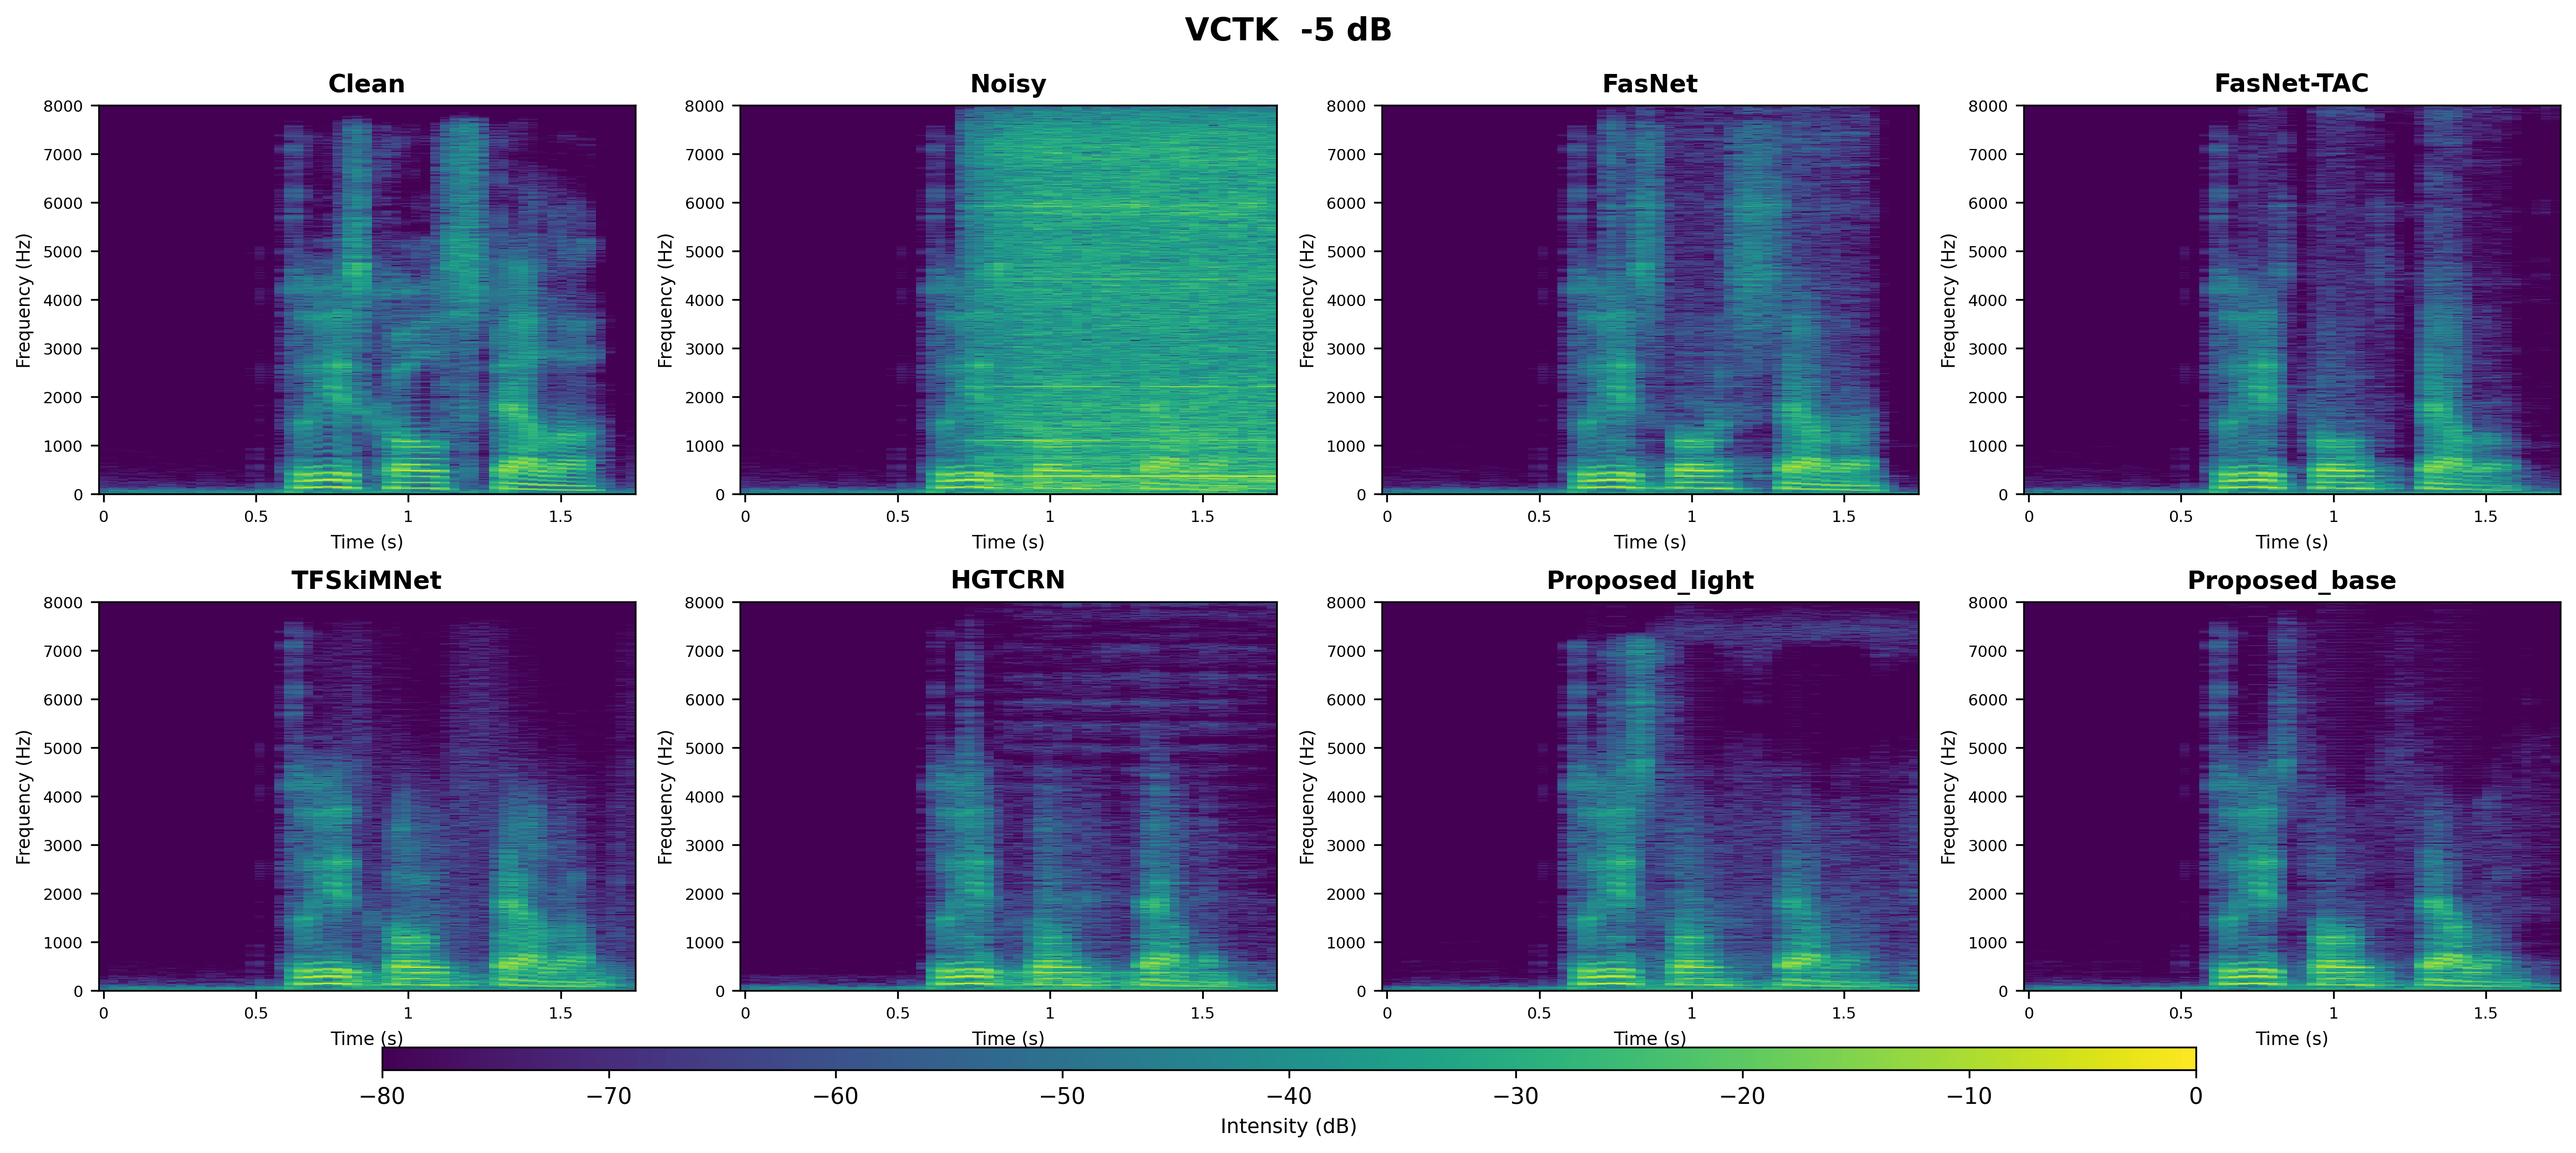
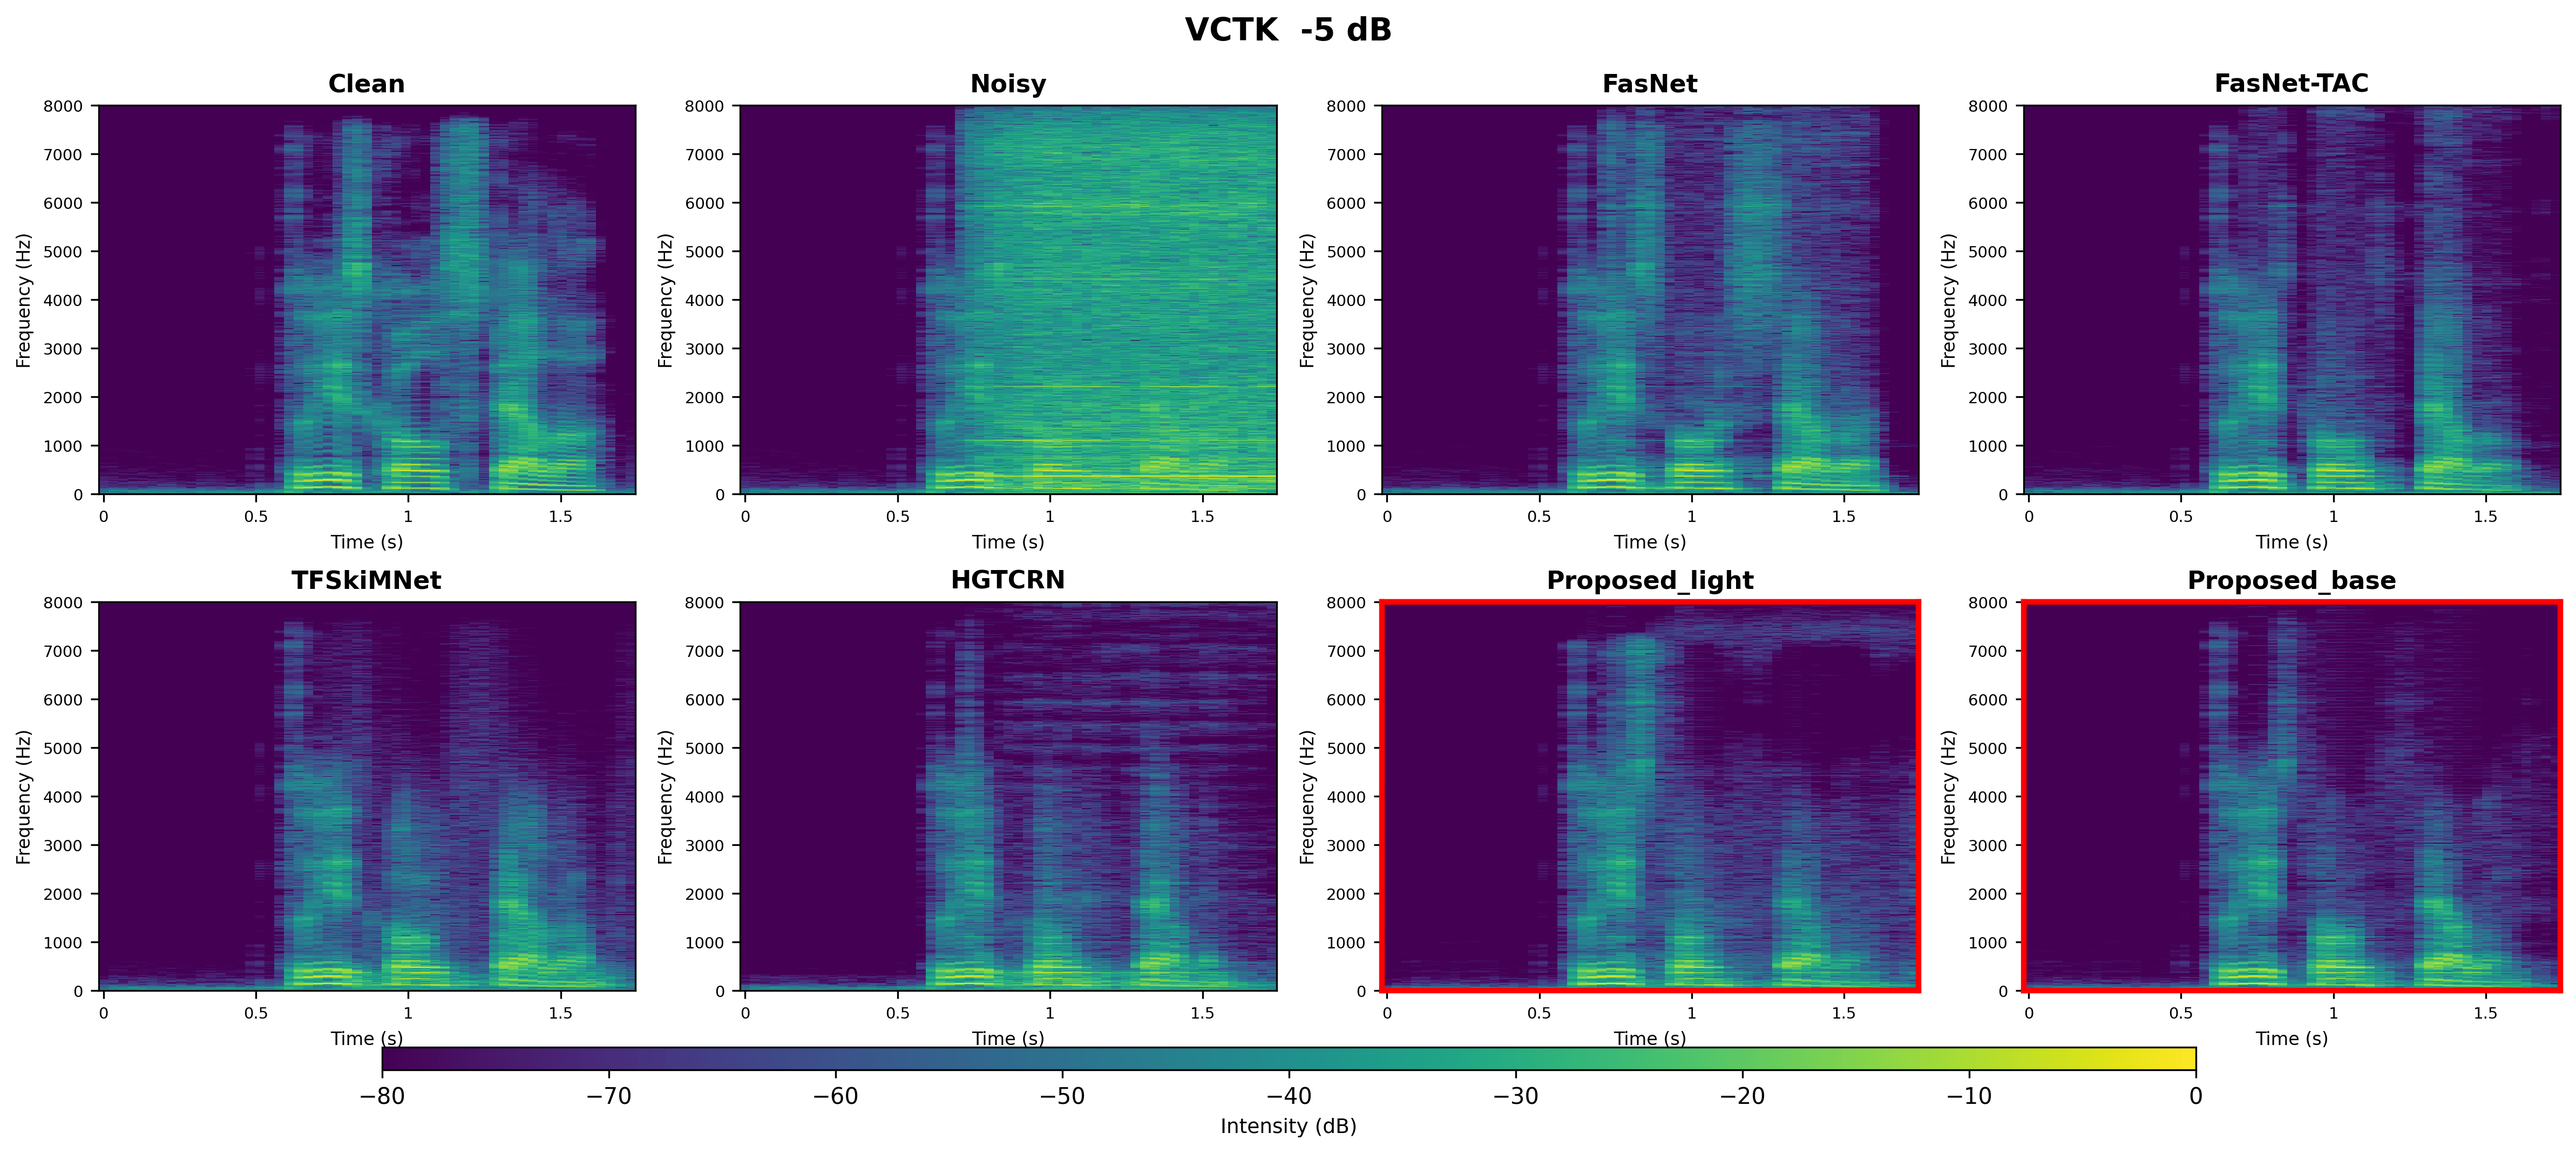
finish html and change picture

diff --git a/index.html b/index.html
@@ -1,0 +1,334 @@
+<!DOCTYPE html>
+<html lang="en">
+<script>
+    window.MathJax = { tex: { inlineMath: [['$', '$'], ['\\(', '\\)']], }, chtml: { scale: 0.9 } };
+</script>
+<script src="https://cdn.jsdelivr.net/npm/mathjax@3.0.1/es5/tex-mml-chtml.js"></script>
+<head>
+    <meta http-equiv="Content-Type" content="text/html; charset=UTF-8">
+    <title>Online Supplement</title>
+    
+    <link rel="stylesheet" type="text/css" href="css/bootstrap.min.css">
+    <script>
+        window.MathJax = { tex: { inlineMath: [['$', '$'], ['\\(', '\\)']], }, chtml: { scale: 0.8 } };
+    </script>
+    <script src="https://cdn.jsdelivr.net/npm/mathjax@3.0.1/es5/tex-mml-chtml.js"></script>
+
+    <style>
+        /* 引入谷歌字体，提升整体质感 */
+        @import url('https://fonts.googleapis.com/css2?family=Roboto:wght@300;400;500;700&display=swap');
+
+        body {
+            font-family: 'Roboto', sans-serif;
+            background-color: #f4f7f6;
+            color: #333;
+        }
+
+        /* 核心修改：加宽容器，增加阴影和内边距，告别拥挤 */
+        .container {
+            max-width: 1400px !important; 
+            background-color: #fff;
+            padding: 40px 50px;
+            margin-top: 40px;
+            margin-bottom: 40px;
+            border-radius: 12px;
+            box-shadow: 0 10px 30px rgba(0,0,0,0.08);
+        }
+
+        header {
+            border-bottom: 2px solid #004085;
+            padding-bottom: 20px;
+            margin-bottom: 30px;
+            text-align: center;
+        }
+
+        header h1 {
+            color: #004085;
+            font-weight: 700;
+        }
+
+        header .color_fade {
+            font-weight: 300;
+            color: #6c757d;
+        }
+
+        h4 {
+            color: #004085;
+            border-left: 5px solid #004085;
+            padding-left: 15px;
+            margin-top: 30px;
+            margin-bottom: 15px;
+            font-weight: 500;
+        }
+
+        h5 {
+            color: #495057;
+            margin-top: 25px;
+            margin-bottom: 15px;
+            font-weight: 700;
+            border-bottom: 1px dashed #ccc;
+            padding-bottom: 5px;
+        }
+
+        .info-box {
+            background-color: #f8f9fa;
+            padding: 15px;
+            border-radius: 4px;
+            border: 1px solid #e9ecef;
+            font-size: medium;
+        }
+
+        /* Baseline methods 链接样式化为“药丸”标签 */
+        .baseline-list {
+            padding-left: 0;
+        }
+        
+        .baseline-list li {
+            display: inline-block;
+            background-color: #e2e6ea;
+            color: #004085;
+            padding: 6px 15px;
+            margin: 5px;
+            border-radius: 20px;
+            font-size: 14px;
+            list-style-type: none;
+        }
+
+        .baseline-list li a {
+            color: #004085;
+            text-decoration: none;
+            font-weight: 500;
+        }
+
+        .baseline-list li a:hover {
+            text-decoration: underline;
+        }
+
+        /* 表格美化与防挤压 */
+        .table {
+            margin-bottom: 0;
+            background-color: #fff;
+            box-shadow: 0 2px 8px rgba(0,0,0,0.02);
+        }
+
+        .table thead th {
+            background-color: #004085;
+            color: #fff;
+            border-bottom: none;
+            text-align: center;
+            vertical-align: middle;
+        }
+
+        .table td, .table th {
+            padding: 12px 15px;
+            vertical-align: middle;
+            text-align: center;
+            border-color: #e9ecef;
+        }
+
+        /* 核心修改：强制表格第一列（Model名称）不换行 */
+        .table td:first-child {
+            white-space: nowrap; 
+            font-weight: 500;
+            color: #495057;
+        }
+
+        /* 高亮 Proposed 方法 */
+        .row-proposed td {
+            font-weight: 700 !important;
+            color: #004085 !important;
+            background-color: #f0f8ff; /* 浅蓝色背景突出显示 */
+        }
+
+        /* 优化音频播放器样式，防止缩成一团 */
+        audio {
+            width: 100%;
+            min-width: 220px; 
+            height: 40px;
+            outline: none;
+        }
+
+        /* 声谱图图片美化 */
+        .spectrogram-img {
+            max-width: 100%;
+            height: auto;
+            border-radius: 8px;
+            border: 1px solid #e9ecef;
+            box-shadow: 0 4px 12px rgba(0,0,0,0.05);
+            transition: transform 0.3s ease;
+        }
+
+        .spectrogram-img:hover {
+            transform: translateY(-3px);
+            box-shadow: 0 8px 20px rgba(0,0,0,0.1);
+        }
+
+        .mb-5 {
+            margin-bottom: 4rem !important; /* 增加每个区块之间的间距 */
+        }
+    </style>
+</head>
+
+<body>
+    <div class="container">
+        <header>
+            <h1>
+                <span class="paper-title">Lightweight and Low-Latency Dual Channel Speech Enhancement via Mel-Domain Modeling and Asymmetric Windows</span>
+                <br>
+                <small class="color_fade">Online Supplement</small>
+            </h1>
+        </header>
+
+        <h4> Authors </h4>
+        <div class="info-box">
+            Authors list goes here.
+        </div>
+
+        <h4> Abstract </h4>
+        <div class="info-box">
+            To address the strict computational and latency constraints of edge devices, we propose HFNet, a lightweight dual-channel speech enhancement framework. HFNet integrates an Aux-IVA spatial front-end with Mel-domain neural modeling to drastically reduce spectral redundancy. Furthermore, an asymmetric window configuration preserves robust spectral resolution while strictly restricting algorithmic latency to 5~ms. Experiments show HFNet-Lite (23.24K parameters, 42.57 M/s MACs) and HFNet-Base (85.86K parameters, 290.95 M/s MACs) consistently outperform existing models under different SNR conditions, while maintaining a Real-Time Factor (RTF) well below 1.0, proving their readiness for real-time edge deployment.
+        </div>
+
+        <h4> Datasets </h4>
+        <div class="info-box">
+            <p>
+                The simulated dual-channel datasets are constructed using the image source method.
+                Room impulse responses (RIRs) are generated for a linear two-microphone array with 4 cm spacing.
+                The training samples are generated by convolving clean single-channel speech signals with the simulated RIRs. 
+                The clean speech is drawn from the VCTK corpus which contains 11,572 training utterances and 824 test utterances. 
+                The room size is randomly sampled from $3\ \mathrm{m} \times 3\ \mathrm{m} \times 2.5\ \mathrm{m}$ to $10\ \mathrm{m} \times 10\ \mathrm{m} \times 3\ \mathrm{m}$, and the reverberation time $RT_{60}$ ranges from 0.1 s to 0.4 s. 
+                The distance between the source and the microphone array is uniformly selected between 0.5 m and 3 m, while the direction-of-arrival (DOA) difference between the target speech and the interfering noise is constrained to be greater than $5^\circ$. 
+                We convolve the clean speech signals with the generated dual-channel RIRs to obtain simulated noisy speech. 
+                The early reflections (within the first 50 ms) of the first channel are preserved as the training target. 
+                To ensure acoustic diversity, diverse stationary and highly non-stationary noises are drawn from DNS-3 dataset.
+                During training, the signal-to-noise ratio (SNR) is randomly sampled from $-5$ dB to 15 dB. 
+                The validation set follows the same SNR range and contain 500 noisy-clean pairs.  
+                For testing, we adopt the original test splits of VCTK (824 utterances).
+                The model is evaluated under three SNR conditions ($-5$ dB, $0$ dB, and $5$ dB).
+            </p>
+        </div>
+
+        <h4> Baseline methods </h4>
+        <div class="info-box">
+            <ul class="baseline-list">
+                <li><a href="https://ieeexplore.ieee.org/abstract/document/9003849" target="_blank">[FasNet]</a></li>
+                <li><a href="https://github.com/yluo42/TAC" target="_blank">[FasNet-TAC]</a></li>
+                <li><a href="https://github.com/zx1292982431/TF-SkiMNet" target="_blank">[TFSkiMNet]</a></li>
+                <li><a href="https://github.com/Max1Wz/H-GTCRN" target="_blank">[HGTCRN]</a></li>
+            </ul>
+        </div>
+        <br/>
+
+        <h4> Audio Samples (VCTK) </h4>
+
+        <h5>-5 dB (N5)</h5>
+        <div class="row align-items-center mb-5">
+            <div class="col-lg-4 col-md-12 mb-4">
+                <table class="table table-bordered">
+                    <thead>
+                        <tr>
+                            <th>Model</th>
+                            <th>Audio</th>
+                        </tr>
+                    </thead>
+                    <tbody>
+                        <tr><td>Clean</td><td><audio controls><source src="samples/VCTK/N5/clean.wav"></audio></td></tr>
+                        <tr><td>Noisy</td><td><audio controls><source src="samples/VCTK/N5/noisy.wav"></audio></td></tr>
+                        <tr><td>FasNet</td><td><audio controls><source src="samples/VCTK/N5/FasNet.wav"></audio></td></tr>
+                        <tr><td>FasNet-TAC</td><td><audio controls><source src="samples/VCTK/N5/FasNet-TAC.wav"></audio></td></tr>
+                        <tr><td>TFSkiMNet</td><td><audio controls><source src="samples/VCTK/N5/TFSkiMNet.wav"></audio></td></tr>
+                        <tr><td>HGTCRN</td><td><audio controls><source src="samples/VCTK/N5/HGTCRN.wav"></audio></td></tr>
+                        <tr class="row-proposed"><td>Proposed (light)</td><td><audio controls><source src="samples/VCTK/N5/Proposed_light.wav"></audio></td></tr>
+                        <tr class="row-proposed"><td>Proposed (base)</td><td><audio controls><source src="samples/VCTK/N5/Proposed_base.wav"></audio></td></tr>
+                    </tbody>
+                </table>
+            </div>
+            <div class="col-lg-8 col-md-12 text-center">
+                <img src="figures/spectrograms/VCTK_-5dB_table1_spectrograms.png" alt="Spectrogram VCTK -5dB" class="spectrogram-img">
+            </div>
+        </div>
+
+        <h5>0 dB</h5>
+        <div class="row align-items-center mb-5">
+            <div class="col-lg-4 col-md-12 mb-4">
+                <table class="table table-bordered">
+                    <thead>
+                        <tr>
+                            <th>Model</th>
+                            <th>Audio</th>
+                        </tr>
+                    </thead>
+                    <tbody>
+                        <tr><td>Clean</td><td><audio controls><source src="samples/VCTK/0/clean.wav"></audio></td></tr>
+                        <tr><td>Noisy</td><td><audio controls><source src="samples/VCTK/0/noisy.wav"></audio></td></tr>
+                        <tr><td>FasNet</td><td><audio controls><source src="samples/VCTK/0/FasNet.wav"></audio></td></tr>
+                        <tr><td>FasNet-TAC</td><td><audio controls><source src="samples/VCTK/0/FasNet-TAC.wav"></audio></td></tr>
+                        <tr><td>TFSkiMNet</td><td><audio controls><source src="samples/VCTK/0/TFSkiMNet.wav"></audio></td></tr>
+                        <tr><td>HGTCRN</td><td><audio controls><source src="samples/VCTK/0/HGTCRN.wav"></audio></td></tr>
+                        <tr class="row-proposed"><td>Proposed (light)</td><td><audio controls><source src="samples/VCTK/0/Proposed_light.wav"></audio></td></tr>
+                        <tr class="row-proposed"><td>Proposed (base)</td><td><audio controls><source src="samples/VCTK/0/Proposed_base.wav"></audio></td></tr>
+                    </tbody>
+                </table>
+            </div>
+            <div class="col-lg-8 col-md-12 text-center">
+                <img src="figures/spectrograms/VCTK_0dB_table1_spectrograms.png" alt="Spectrogram VCTK 0dB" class="spectrogram-img">
+            </div>
+        </div>
+
+        <h5>5 dB</h5>
+        <div class="row align-items-center mb-5">
+            <div class="col-lg-4 col-md-12 mb-4">
+                <table class="table table-bordered">
+                    <thead>
+                        <tr>
+                            <th>Model</th>
+                            <th>Audio</th>
+                        </tr>
+                    </thead>
+                    <tbody>
+                        <tr><td>Clean</td><td><audio controls><source src="samples/VCTK/5/clean.wav"></audio></td></tr>
+                        <tr><td>Noisy</td><td><audio controls><source src="samples/VCTK/5/noisy.wav"></audio></td></tr>
+                        <tr><td>FasNet</td><td><audio controls><source src="samples/VCTK/5/FasNet.wav"></audio></td></tr>
+                        <tr><td>FasNet-TAC</td><td><audio controls><source src="samples/VCTK/5/FasNet-TAC.wav"></audio></td></tr>
+                        <tr><td>TFSkiMNet</td><td><audio controls><source src="samples/VCTK/5/TFSkiMNet.wav"></audio></td></tr>
+                        <tr><td>HGTCRN</td><td><audio controls><source src="samples/VCTK/5/HGTCRN.wav"></audio></td></tr>
+                        <tr class="row-proposed"><td>Proposed (light)</td><td><audio controls><source src="samples/VCTK/5/Proposed_light.wav"></audio></td></tr>
+                        <tr class="row-proposed"><td>Proposed (base)</td><td><audio controls><source src="samples/VCTK/5/Proposed_base.wav"></audio></td></tr>
+                    </tbody>
+                </table>
+            </div>
+            <div class="col-lg-8 col-md-12 text-center">
+                <img src="figures/spectrograms/VCTK_5dB_table1_spectrograms.png" alt="Spectrogram VCTK 5dB" class="spectrogram-img">
+            </div>
+        </div>
+
+        <h4> Ablation Audio Samples </h4>
+        <div class="row align-items-center mb-5">
+            <div class="col-lg-4 col-md-12 mb-4">
+                <table class="table table-bordered">
+                    <thead>
+                        <tr>
+                            <th>Variant</th>
+                            <th>Audio</th>
+                        </tr>
+                    </thead>
+                    <tbody>
+                        <tr><td>(a) Y_LMS + IVA-S&N_LMS</td><td><audio controls><source src="samples/ablation/a_YLMS_IVA_SN.wav"></audio></td></tr>
+                        <tr><td>(b) Y_Re&Im + IVA-S&N_LMS</td><td><audio controls><source src="samples/ablation/b_YReIm_IVA_SN.wav"></audio></td></tr>
+                        <tr><td>(c) Y_Re&Im</td><td><audio controls><source src="samples/ablation/c_YReIm.wav"></audio></td></tr>
+                        <tr><td>(d) Y_LMS + IVA-S_LMS</td><td><audio controls><source src="samples/ablation/d_YLMS_IVA_S.wav"></audio></td></tr>
+                        <tr><td>(e) Y_LMS</td><td><audio controls><source src="samples/ablation/e_YLMS.wav"></audio></td></tr>
+                        <tr><td>(f) w/o CBAM</td><td><audio controls><source src="samples/ablation/f_wo_CBAM.wav"></audio></td></tr>
+                        <tr><td>(g) w/o Mel-domain</td><td><audio controls><source src="samples/ablation/g_wo_Mel.wav"></audio></td></tr>
+                        <tr><td>(h) w/o Asymmetric</td><td><audio controls><source src="samples/ablation/h_wo_Asym.wav"></audio></td></tr>
+                    </tbody>
+                </table>
+            </div>
+            <div class="col-lg-8 col-md-12 text-center">
+                <img src="figures/spectrograms/ablation_table2_spectrograms.png" alt="Spectrogram Ablation" class="spectrogram-img">
+            </div>
+        </div>
+
+    </div>
+</body>
+</html>
